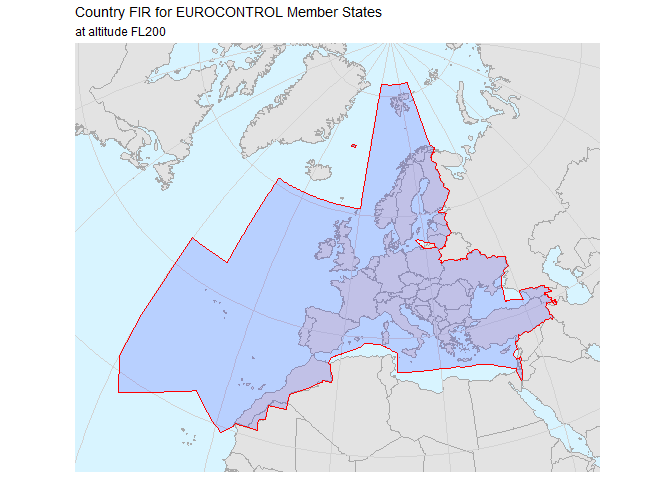
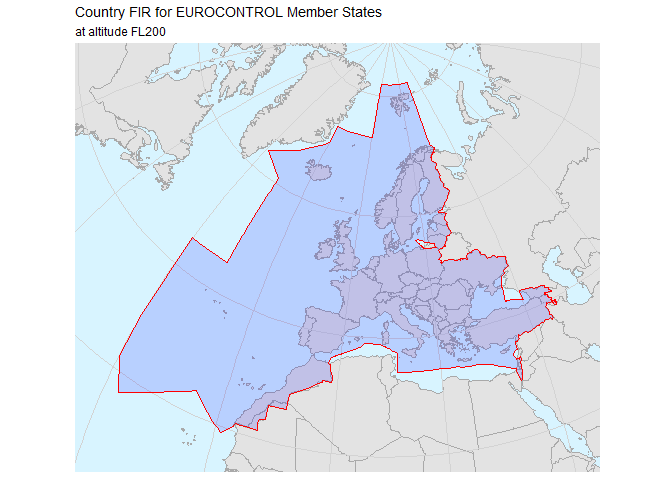
added alt text to all figures

Changed region(s): [[0.375, 0.25, 0.5625, 0.4375]]

diff --git a/README.md b/README.md
@@ -7,7 +7,6 @@
 
 [![R-CMD-check](https://github.com/euctrl-pru/pruatlas/workflows/R-CMD-check/badge.svg)](https://github.com/euctrl-pru/pruatlas/actions)
 [![pkgdown](https://github.com/euctrl-pru/pruatlas/workflows/pkgdown/badge.svg)](https://github.com/euctrl-pru/pruatlas/actions)
-[![R-CMD-check](https://github.com/euctrl-pru/pruatlas/actions/workflows/R-CMD-check.yaml/badge.svg)](https://github.com/euctrl-pru/pruatlas/actions/workflows/R-CMD-check.yaml)
 <!-- badges: end -->
 
 This is still **Work In Progress** but we value constructive feedback:
@@ -24,24 +23,22 @@ ANSP is as follows:
 
 ``` r
 library(sf)
-#> Warning: package 'sf' was built under R version 4.3.3
 library(pruatlas)
-#> Warning: package 'pruatlas' was built under R version 4.3.1
 fl <- 300
 plot_country_fir("ED", "Germany", fl = fl)
 plot_country_ansp("DFS", "DFS, Germany", fl = fl)
 ```
 
-<img src="man/figures/README-lf-fir-1.png" width="50%" /><img src="man/figures/README-lf-fir-2.png" width="50%" />
+<img src="man/figures/README-lf-fir-1.png" alt="A map of Germany's FIR's area at flight level 300" width="50%" /><img src="man/figures/README-lf-fir-2.png" alt="A map of Germany's ANSP's area at flight level 300" width="50%" />
 
 Or EUROCONTROL’s Member States FIR area:
 
 ``` r
-ms <- "E.|L.|UD|UG|GM|UK|GC"
+ms <- "BI|E.|L.|UD|UG|GM|UK|GC"
 plot_country_fir(icao_id = ms, "EUROCONTROL Member States", buffer = 350, fl = 200)
 ```
 
-<img src="man/figures/README-euctrl-ms-1.png" width="80%" />
+<img src="man/figures/README-euctrl-ms-1.png" alt="A map of all EUROCONTROL Member States' merged FIR's at flight level 200" width="80%" />
 
 Lower level functions or datasets include for example `countries50m`,
 the Simple Feature for the whole world countries or `extent_fir()` to
